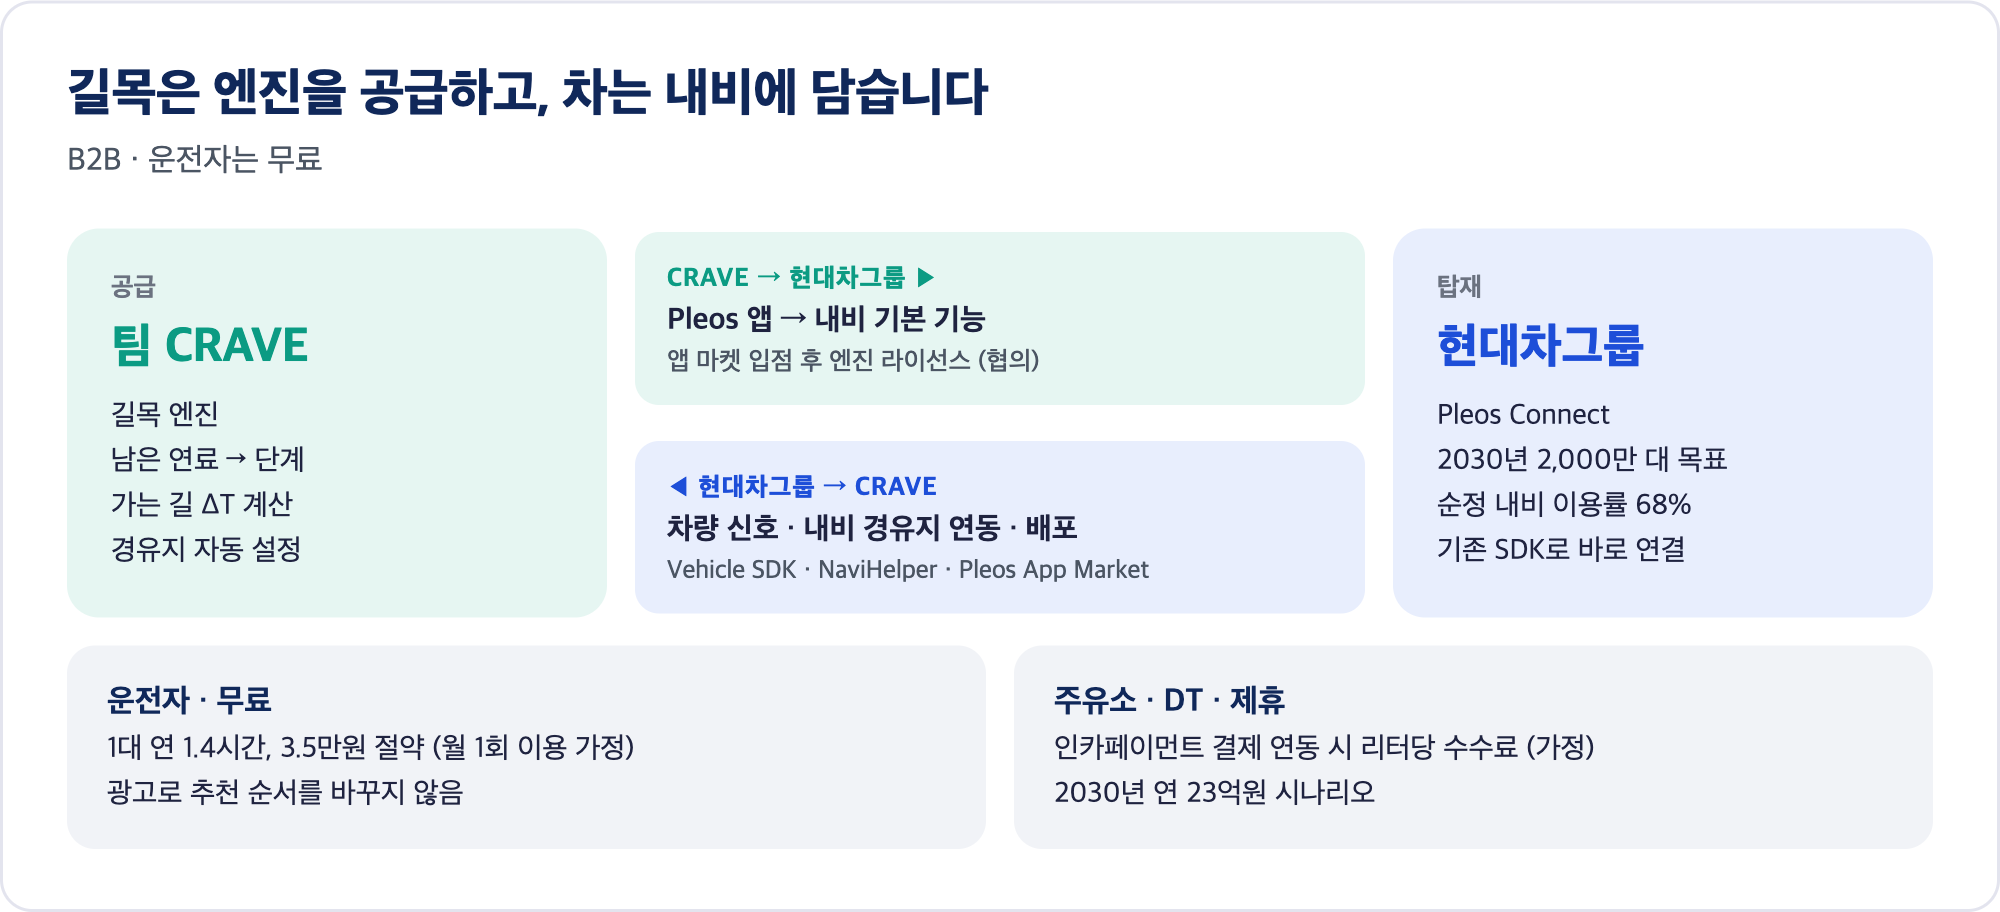
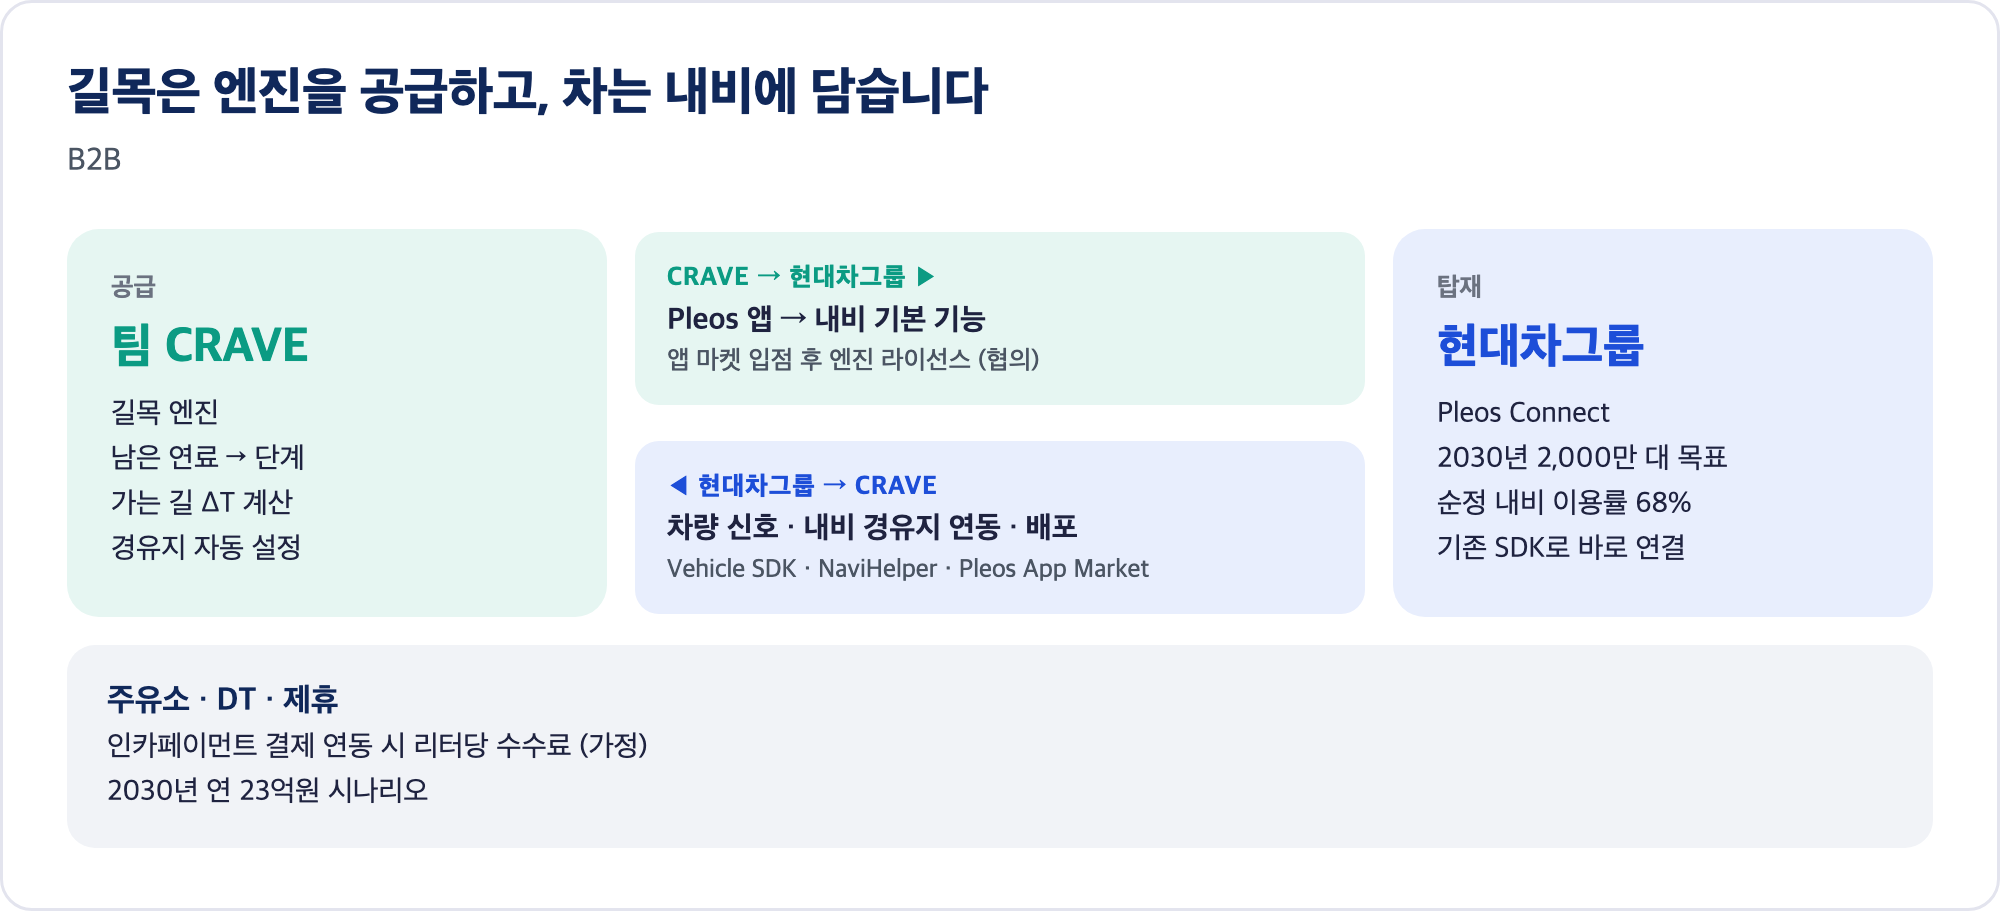
Drop the free-for-drivers part from the business section
Remove the driver card and "운전자는 무료" from the B2B figure, its alt
text, and the revenue-model note.

diff --git a/docs/figs/figures.html b/docs/figs/figures.html
@@ -90,7 +90,7 @@ h1{font-size:26px;font-weight:800;color:var(--navy);letter-spacing:-.3px}
 
 <section id="business_flow">
   <h1>길목은 엔진을 공급하고, 차는 내비에 담습니다</h1>
-  <p class="sub">B2B · 운전자는 무료</p>
+  <p class="sub">B2B</p>
   <div class="b2b">
     <div class="party" style="background:var(--mint)">
       <div class="t">공급</div><div class="n" style="color:var(--teal)">팀 CRAVE</div>
@@ -105,8 +105,7 @@ h1{font-size:26px;font-weight:800;color:var(--navy);letter-spacing:-.3px}
       <ul><li>Pleos Connect</li><li>2030년 2,000만 대 목표</li><li>순정 내비 이용률 68%</li><li>기존 SDK로 바로 연결</li></ul>
     </div>
   </div>
-  <div class="users">
-    <div class="u"><b>운전자 · 무료</b><br>1대 연 1.4시간, 3.5만원 절약 (월 1회 이용 가정)<br>광고로 추천 순서를 바꾸지 않음</div>
+  <div class="users" style="grid-template-columns:1fr">
     <div class="u"><b>주유소 · DT · 제휴</b><br>인카페이먼트 결제 연동 시 리터당 수수료 (가정)<br>2030년 연 23억원 시나리오</div>
   </div>
 </section>

diff --git a/README.md b/README.md
@@ -60,7 +60,7 @@
 
 ## 6. 사업성
 
-<img src="docs/img/business_flow.png" width="100%" alt="B2B 구조: 팀 CRAVE가 길목 엔진(남은 연료 → 단계, 가는 길 ΔT 계산, 경유지 자동 설정)을 공급하고 현대차그룹이 Pleos Connect 내비 기본 기능으로 탑재. CRAVE → 현대차그룹: Pleos 앱 → 내비 기본 기능, 앱 마켓 입점 후 엔진 라이선스(협의). 현대차그룹 → CRAVE: 차량 신호·내비 경유지 연동·배포(Vehicle SDK, NaviHelper, Pleos App Market). 운전자는 무료(1대 연 1.4시간, 3.5만원 절약, 가정), 주유소·DT는 인카페이먼트 결제 연동 시 리터당 수수료(가정, 2030년 연 23억원 시나리오)">
+<img src="docs/img/business_flow.png" width="100%" alt="B2B 구조: 팀 CRAVE가 길목 엔진(남은 연료 → 단계, 가는 길 ΔT 계산, 경유지 자동 설정)을 공급하고 현대차그룹이 Pleos Connect 내비 기본 기능으로 탑재. CRAVE → 현대차그룹: Pleos 앱 → 내비 기본 기능, 앱 마켓 입점 후 엔진 라이선스(협의). 현대차그룹 → CRAVE: 차량 신호·내비 경유지 연동·배포(Vehicle SDK, NaviHelper, Pleos App Market). 주유소·DT는 인카페이먼트 결제 연동 시 리터당 수수료(가정, 2030년 연 23억원 시나리오)">
 
 <img src="docs/img/target_mau.png" width="100%" alt="예상 MAU 상한: 국내 등록 차량 2,667.6만 대 → 연료차 2,352.4만 대(88%) → 2030년 Pleos 탑재 국내 연료차 242만 대(가정) → MAU 209만(그 달 1회 이상 이용 86.5%, 월 주유 2.8회 + DT 0.3회) · 지금 설치 가능한 차 5.3만 대">
 
@@ -70,8 +70,6 @@
 
 <details>
 <summary>수익 모델과 사업성 지표</summary>
-
-사용자에게는 무료로 제공하고 광고비로 추천 순서를 바꾸지 않습니다.
 
 | 지표 | 값 | 기준 |
 |---|---|---|
